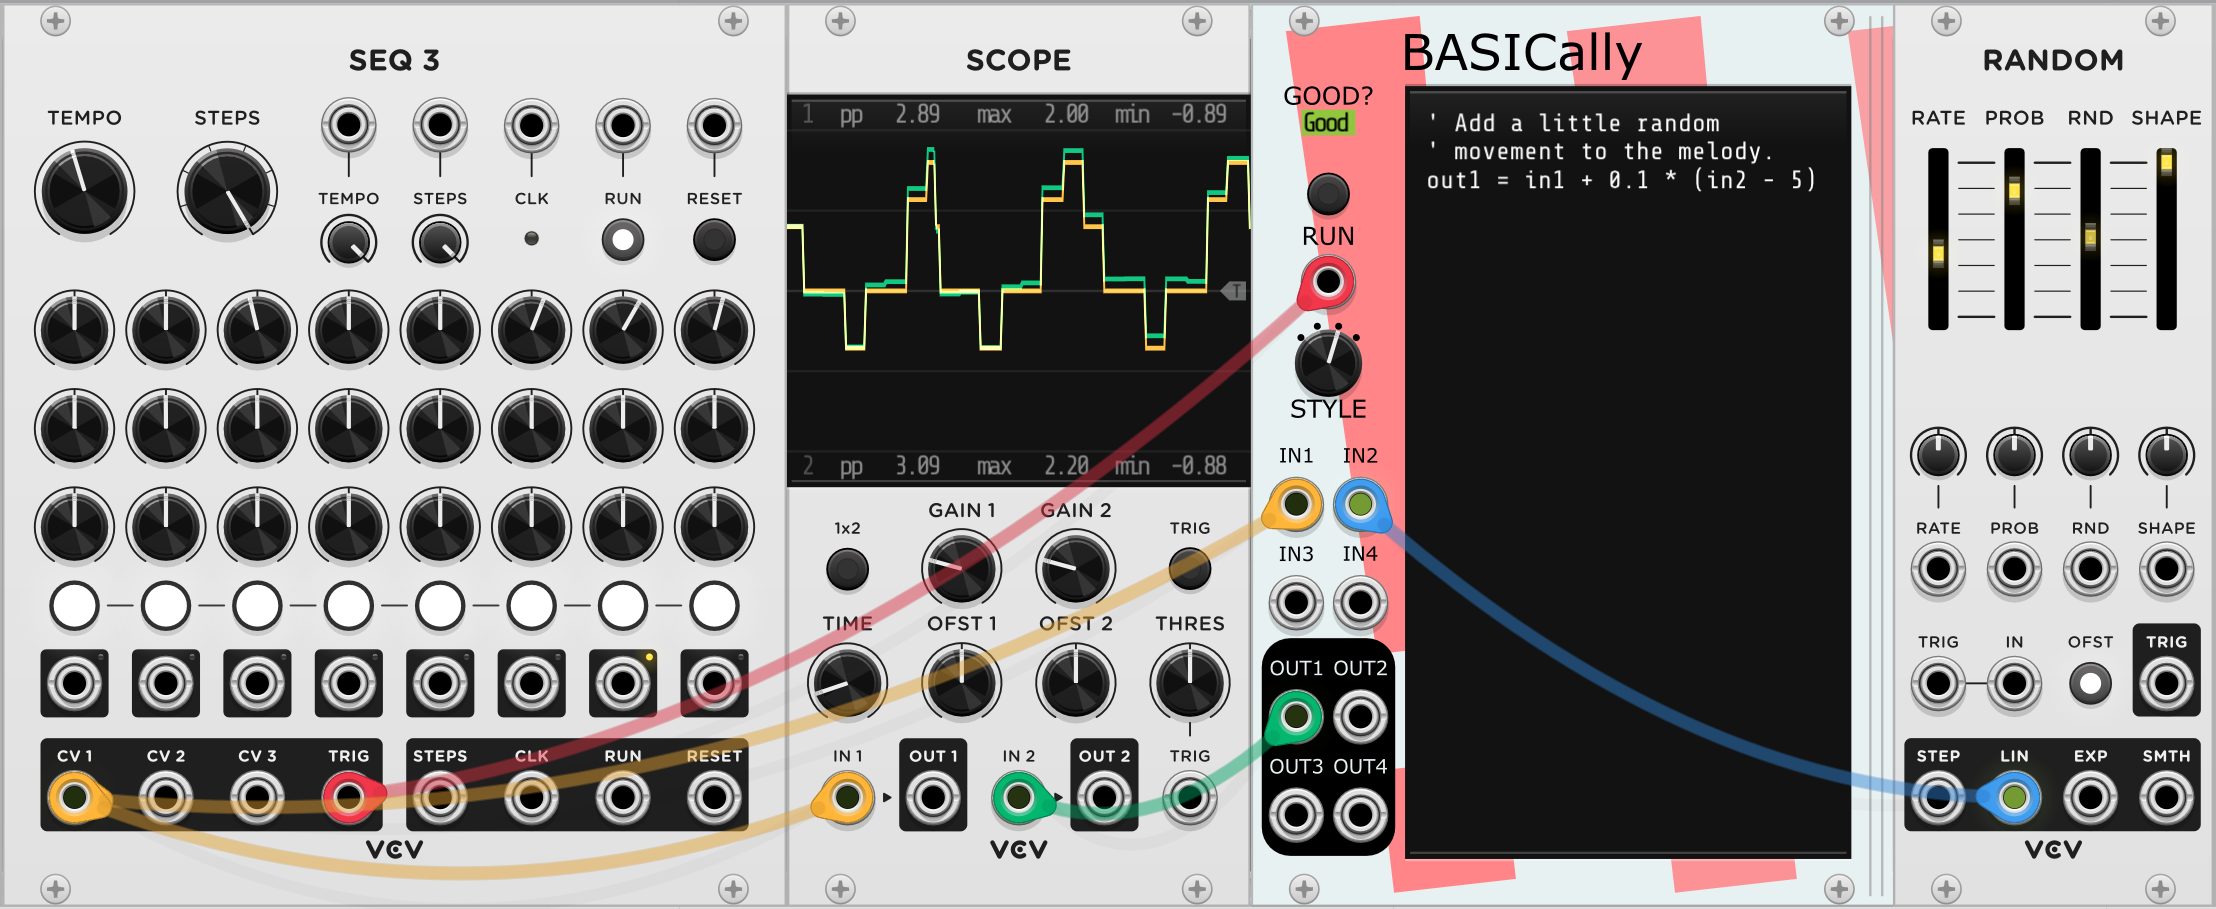
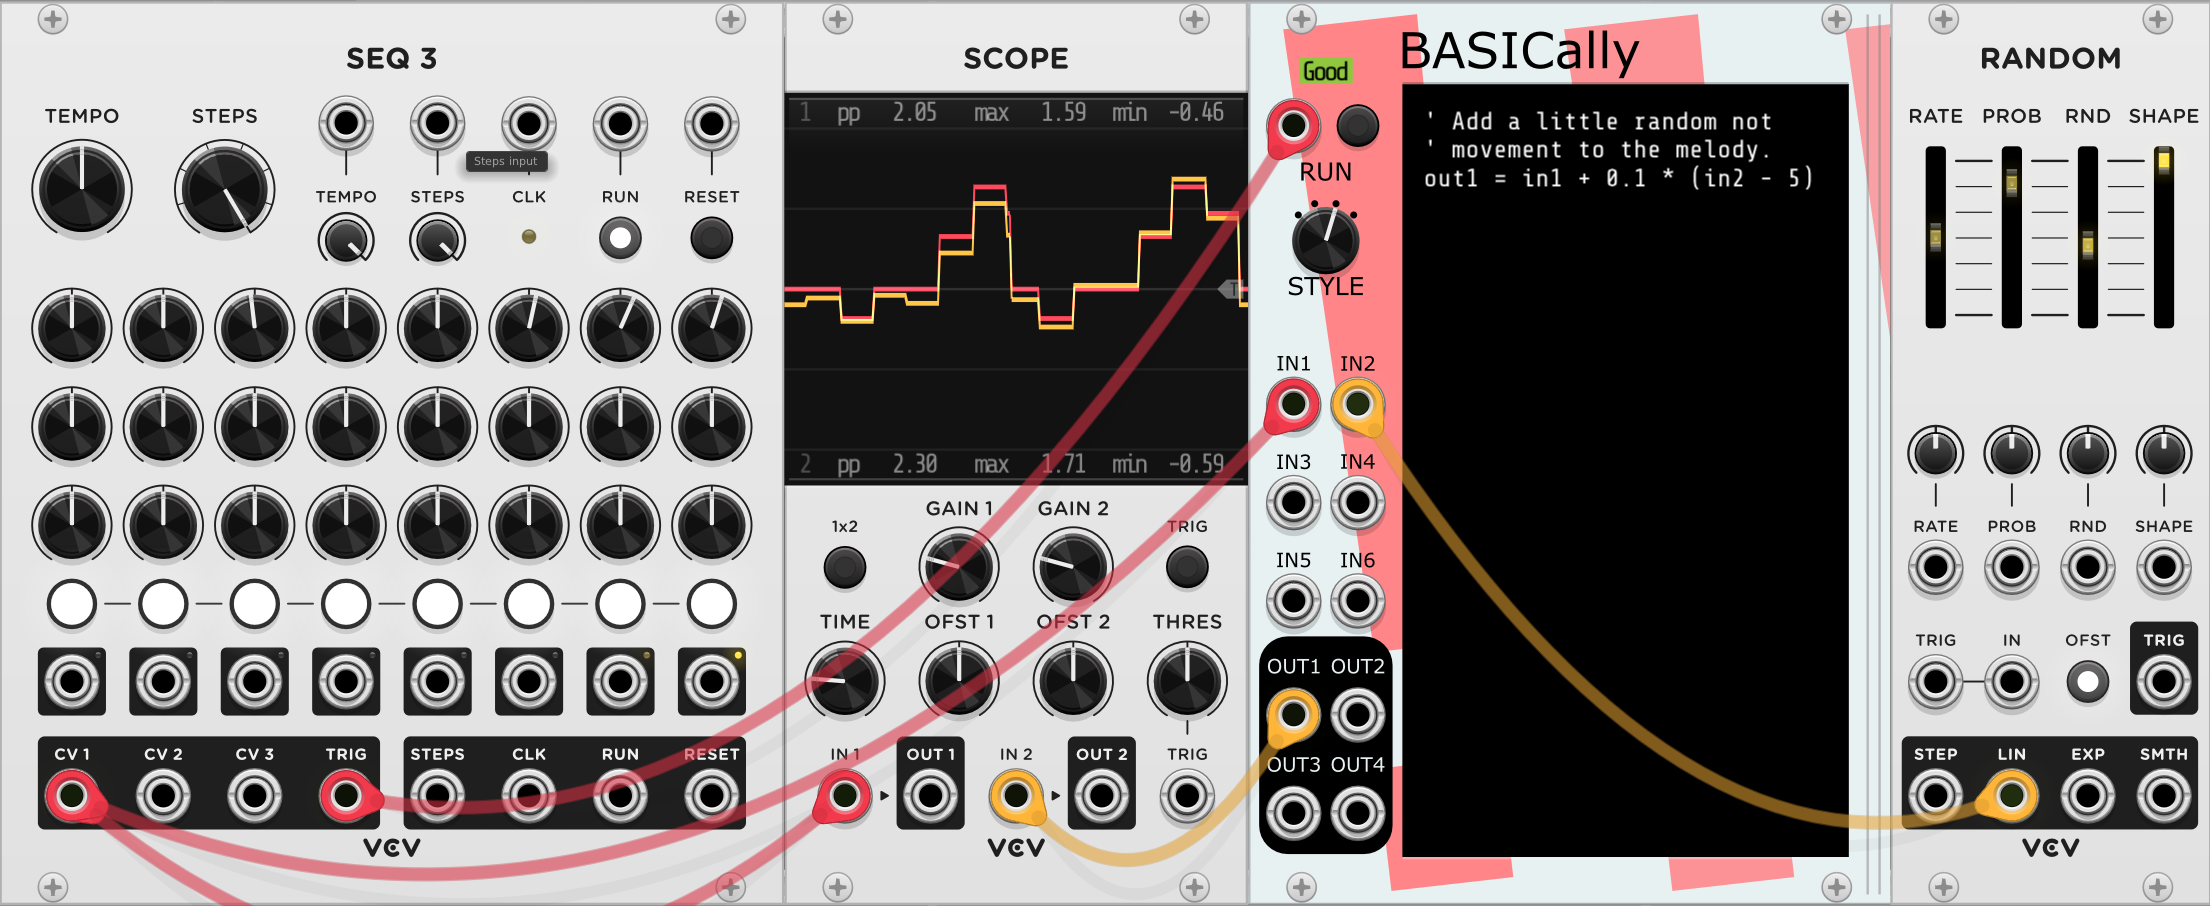
Update docs for 2.0.4 release.
Updated documentation and screenshot images.

diff --git a/README.md b/README.md
@@ -42,10 +42,10 @@ Useful for:
 Note that STYLE is set to "Start on trigger, don't loop".
 
 The examples above are all in [this patch](examples/BASICallyExamples1.vcv).
-A patch with some simple ideas for other directions BASICally can go are in
-[this patch](examples/BASICallyExperiments.vcv).
+A patch with some simple/strange/silly ideas for other things BASICally can do
+are in [this patch](examples/BASICallyExperiments.vcv).
 
-TODO: video of different examples and their output
+<!-- TODO: video of different examples and their output -->
 
 ## Unique Features
 While there are
@@ -59,14 +59,14 @@ know, once knew, or can pick up by looking at examples.
 * The right side of the module is a resize bar; pull it to the right or left,
 and the code window changes size. Handy for reading those long comments without
 line breaks and for shrinking the module down to a small size when you don't
-wish to edit the code.
+wish to edit the code. Also, the text window scrolls up and down as you move
+through it.
 * Four different run "STYLES" (see Controls below), giving it the ability to
  act on a RUN trigger, or to run the most recent working version continuously
  as you type, or only run while a button or trigger is pressed.
 * Edits in the text window become part of the VCV Rack Undo/Redo system.
 * You can pick from a (small) number of screen color schemes in the menu.
-* [Scientific pitch notation](https://en.m.wikipedia.org/wiki/Scientific_pitch_notation) is supported (e.g., c4, Db2, d#8). They are
-turned into V/OCT values.
+* [Scientific pitch notation](https://en.m.wikipedia.org/wiki/Scientific_pitch_notation) is supported (e.g., c4, Db2, d#8). They are turned into V/OCT values.
 
 ## The Language
 ### Setting and Using Variables (Assignment and Math)
@@ -364,9 +364,8 @@ WAIT 0  ' There is a hidden WAIT 0 inserted at the bottom of the program.
 ```
 
 ### Controls
-#### GOOD? Light
-The area underneath the "GOOD?" indicates whether or not BASICally has figured
-out how to turn your code into instructions. If it looks like:
+#### The Good/Fix Light
+The lit word in the upper left corner indicates whether or not BASICally has figured out how to turn your code into instructions. If it looks like:
 
 ![Good image](images/BASICallyGood.png)
 
@@ -374,11 +373,14 @@ then BASICally can run your code. However if it looks like:
 
 ![Fix image](images/BASICallyFix.png)
 
-Then it cannot run the code as it stands. If you roll the mouse pointer over
-the "Fix", then BASICally will attempt to point out where the first error
-it found was. As you can see here, for now, it can only vaguely tell
-you where it got confused and why. The red error highlight line will point to
-the line it means. 
+Then it cannot run the code as it stands. You can see that the line where it
+gets confused is highlighted in red.
+
+If you roll the mouse pointer over the "Fix", then BASICally will attempt to
+describe the first error it found. As you can see here, it can only vaguely
+tell you where it got confused and why. Note that if the editing window is
+scrolled away from the line where the error occurs, you won't be able to see
+the highlight line until you scroll up (or down) to it.
 
 #### STYLE Knob + RUN Button and Input
 There are four options to determine when the code will run. Three of them rely on the RUN Button and trigger/gate, which are described below.
